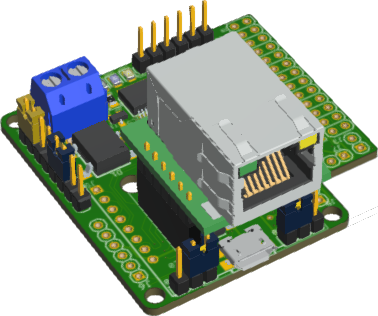
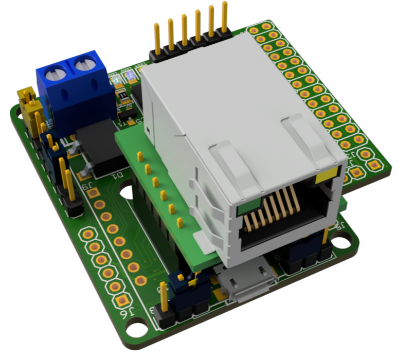
better images and add shadow for bigger images

diff --git a/index.md b/index.md
@@ -61,7 +61,7 @@ Diese ist notwendig, um bspw. die PIC Firmware zu aktualisieren oder die Etherne
 
 #### USB
 {:.usb}
-[<img src="img/smd-3dusb.png" width="200" alt="USB" title="USB">](img/smd-3dusb.png)  
+[<img src="img/smd-3dusb.png" width="200" alt="USB" title="USB">](img/smd-3dusb.jpg)  
 Zur Nutzung des Adapters über den USB-Anschluss J2 müssen die Jumper wie folgt gesetzt werden:
 * J1: USB
 * J4: USB
@@ -73,7 +73,7 @@ USB serial Adaptern anders lauten kann.
 
 #### Raspberry Pi
 {:.rpi id="rpi"}
-[<img src="img/smd-3drpi.png" width="200" alt="RPI" title="RPI">](img/smd-3drpi.png)    
+[<img src="img/smd-3drpi.png" width="200" alt="RPI" title="RPI">](img/smd-3drpi.jpg)    
 Durch Einsatz einer 2x13 poligen Buchsenleiste an J8 lässt sich der Adapter auf den
 [Raspberry Pi](https://www.raspberrypi.org/) aufstecken.
 Die Jumper müssen dazu wie folgt gesetzt werden:
@@ -86,7 +86,7 @@ Die ebusd device Konfiguration lautet: `-d enh:/dev/ttyAMA0`
 
 #### WIFI
 {:.wifi}
-[<img src="img/smd-3dwifi.png" width="200" alt="WIFI" title="WIFI">](img/smd-3dwifi.png)        
+[<img src="img/smd-3dwifi.png" width="200" alt="WIFI" title="WIFI">](img/smd-3dwifi.jpg)        
 Wird ein [LOLIN/Wemos D1 mini mit ESP-8266](https://docs.wemos.cc/en/latest/d1/d1_mini.html) auf J9 gesteckt,
 dann lässt sicher der Adapter via WLAN verwenden.
 Die Jumper müssen dazu wie folgt gesetzt werden:
@@ -105,7 +105,7 @@ IP-Adresse ersetzt werden muss.
 
 #### Ethernet
 {:.ethernet}
-[<img src="img/smd-3dethernet.png" width="200" alt="Ethernet" title="Ethernet">](img/smd-3dethernet.png)  
+[<img src="img/smd-3dethernet.png" width="200" alt="Ethernet" title="Ethernet">](img/smd-3dethernet.jpg)  
 Wird ein [USR-ES1 Modul mit W5500](https://www.pusr.com/download/ES1/USR-ES1-EN-V1.0.pdf) auf J10 gesteckt,
 dann lässt sich der Adapter via LAN verwenden.
 Die Jumper müssen dazu wie folgt gesetzt werden:
